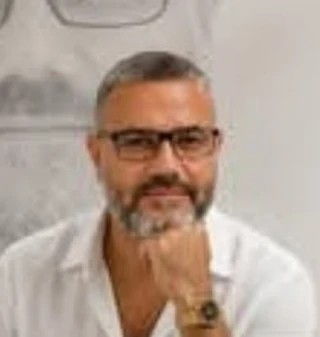
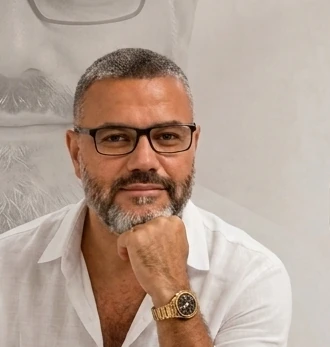
Retrato do Jeferson na versão de alta resolução da peça
Mesma arte de divulgação da entrega anterior, agora em 941x1136 em vez de
583x704 — 1,6x maior. Era exatamente disso que dependia a maciez que ficou
registrada no commit anterior: o rosto agora ocupa 330x347 do original, e o
recorte é gravado sem reamostrar. A nitidez ficou equivalente à do retrato da
Dra. Juliana, ao lado.

Enquadramento refeito nesta resolução, testando três: em x214/w346 o "C" de
CONSTRÓI, do texto da peça, começa a entrar no quadro. Ficou x206 y196 w330, com
a cabeça na mesma escala da do card dela. O limite está anotado no comentário do
campo, para quem for reenquadrar depois.

diff --git a/src/lib/jp.ts b/src/lib/jp.ts
@@ -119,14 +119,15 @@ export const GESTOR = {
   /**
    * Retrato de uma pessoa que existe. Não trocar por imagem de gerador.
    *
-   * ⚠ Sai de uma peça de divulgação (corpo inteiro, com texto e o retrato dele
-   * ampliado ao fundo), não de um retrato. O rosto ocupa só ~196x206px do
-   * original, então o recorte fica mais macio que o da Dra. Juliana, que veio de
-   * foto própria. O arquivo é 320x337 de propósito: cobre o card (106x112 CSS)
-   * até tela 3x, e ampliar além disso só inventaria pixel.
+   * Recortado da peça de divulgação dele (corpo inteiro, sentado, com o retrato
+   * ampliado ao fundo): região de 330x347 a partir de (206,196) do original de
+   * 941x1136, na mesma escala de cabeça do retrato da Dra. Juliana.
    *
-   * Se aparecer um retrato dele em foto dedicada, é troca direta — e a nitidez
-   * melhora sozinha.
+   * Gravado sem reamostrar — 330x347 é o recorte cru. Cobre o card (106x112 CSS)
+   * até tela 3x com folga, então não há motivo para redimensionar.
+   *
+   * Não abra mais o enquadramento para a direita: por volta de x+346 o "C" de
+   * CONSTRÓI, do texto da peça, entra no quadro.
    */
   foto: fotoJeferson as string | undefined,
   texto: [
